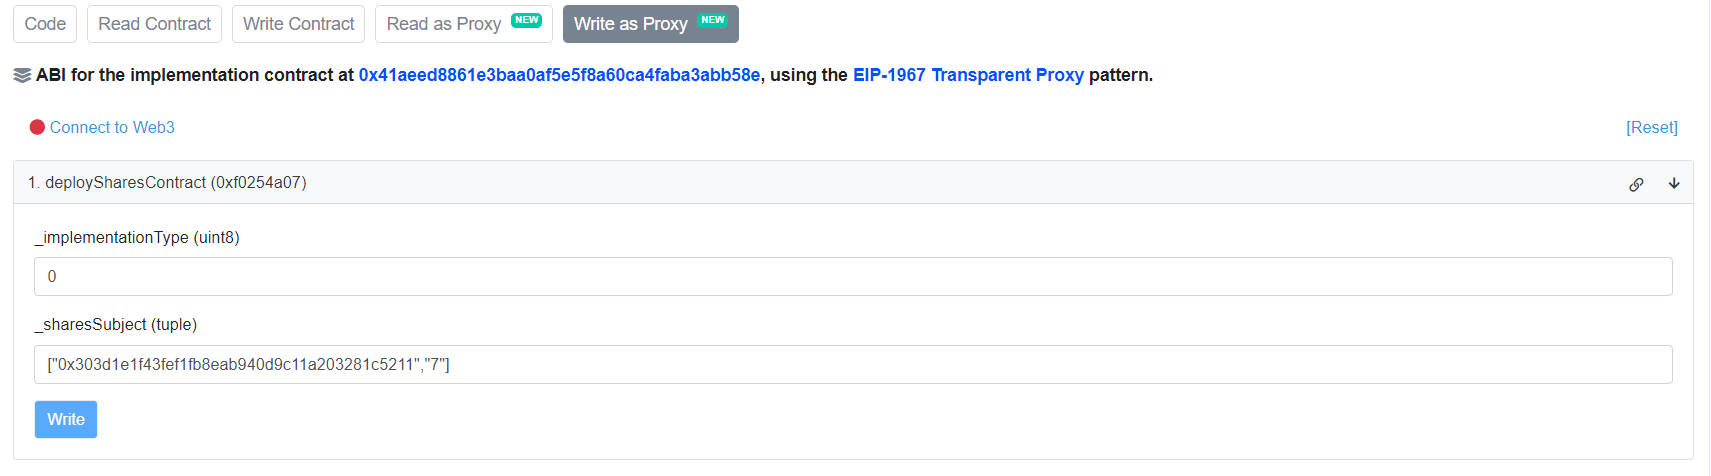
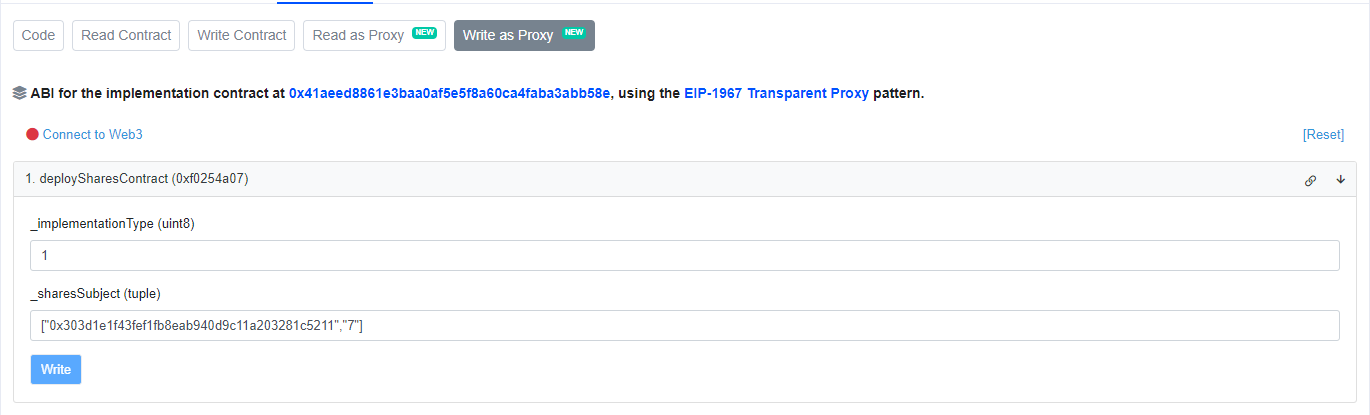
Updated nft to dpt for ALI

diff --git a/guides/convert-nft-to-dpt/main.ts b/guides/convert-nft-to-dpt/main.ts
@@ -6,7 +6,7 @@ import KEYS_FACTORY_ABI from "./abis/KeysFactory.json";
 dotevnv.config()
 
 // Keys Factory Address Contract Reference: https://github.com/AI-Protocol-Official/ai-protocol-v3-periphery/blob/master/contracts/bonding_curves/SharesFactoryV1.sol
-const KEYS_FACTORY_ADDRSS = "0x63aCBC42e466d29F271c102Bf97A18B52203b308"
+const KEYS_FACTORY_ADDRSS = "0x80f5bcc38b18c0f0a18af3c6fba515c890689342"
 const { PRIVATE_KEY, RPC_URL, NFT_COLLECTION_ADDRESS, NFT_TOKEN_ID } = process.env
 
 async function main() {
@@ -44,7 +44,7 @@ async function main() {
      * @param implementationType This denotes the underlying currency that will be used to buy and sell keys. 0 = ETH and 1 = ALI
      * @param sharesSubject NFT subject to which the keys contract will be launched.
      */
-    const tx = await keysFactoryContract.deploySharesContract(0, {
+    const tx = await keysFactoryContract.deploySharesContract(1, {
         tokenAddress: NFT_COLLECTION_ADDRESS,
         tokenId: NFT_TOKEN_ID
     })

diff --git a/guides/convert-nft-to-dpt/README.md b/guides/convert-nft-to-dpt/README.md
@@ -4,9 +4,9 @@ Any ERC721 Token (NFT) can be converted into a DPT using AI Protocol smart contr
 # Instructions
 ## Option 1: Using Basescan
 
-1. Open https://basescan.org/address/0x63aCBC42e466d29F271c102Bf97A18B52203b308#writeProxyContract#F1 and fill in the details for function 1. `deploySharesContract`. Format:
+1. Open https://basescan.org/address/0x80f5bcc38b18c0f0a18af3c6fba515c890689342#writeProxyContract#F1 and fill in the details for function 1. `deploySharesContract`. Format:
     ```
-    _implementationType (uint8): 0 (This will be zero for every DPT)
+    _implementationType (uint8): 1 (This will be zero for every DPT)
     _sharesSubject (tuple): ["collection_address","tokenId"] eg: ["0x303d1e1f43fef1fb8eab940d9c11a203281c5211","7"]
     ```
     
@@ -21,7 +21,7 @@ Any ERC721 Token (NFT) can be converted into a DPT using AI Protocol smart contr
     ![Write](./screenshots/3.png)
 
 4. Retrieve the keys contract that is being deployed against your NFT.
-5. Open https://basescan.org/address/0x63aCBC42e466d29F271c102Bf97A18B52203b308#readProxyContract#F27 and fill in the details for function 27. `lookupSharesContract`. Format
+5. Open https://basescan.org/address/0x80f5bcc38b18c0f0a18af3c6fba515c890689342#readProxyContract#F27 and fill in the details for function 27. `lookupSharesContract`. Format
     ```
     _sharesSubject (tuple): ["collection_address","tokenId"] eg: ["0x303d1e1f43fef1fb8eab940d9c11a203281c5211","7"]
     ```
